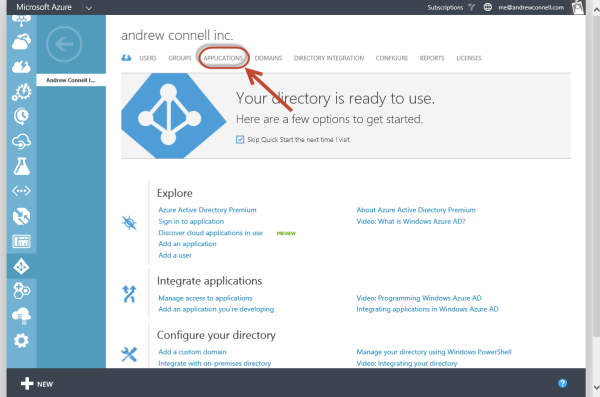
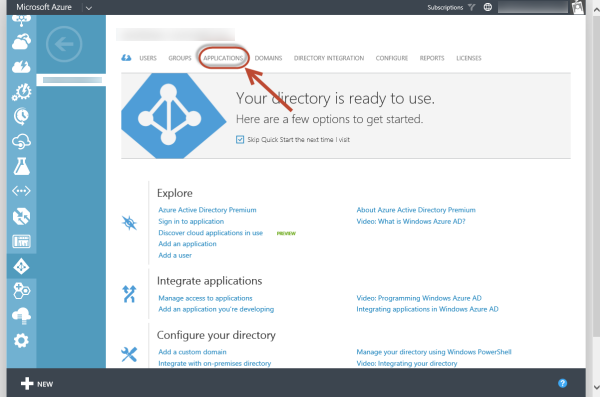
updated HOL to (1) reference correct O365 tools in VS2013.4 & (2) updated screenshots to mask out author's email & tenant

diff --git a/O3653-1 Deep Dive into Azure AD with the Office 365 APIs/Lab.md b/O3653-1 Deep Dive into Azure AD with the Office 365 APIs/Lab.md
@@ -4,8 +4,8 @@ In this lab you will configure your Azure Active Directory (Azure AD) tenant to 
 
 ## Prerequisites
 1. You must have an Office 365 tenant and Windows Azure subscription to complete this lab. If you do not have one, the lab for **O3651-7 Setting up your Developer environment in Office 365** shows you how to obtain a trial.
-1. You must have the Office 365 API Tools version 1.2.41027.2 installed in Visual Studio 2013.
-1. You must have the TelerikFiddler application installed. Fiddler can be downloaded from [http://www.telerik.com/fiddler](http://www.telerik.com/fiddler) 
+1. You must have the Office 365 API Tools version 1.3.41104.1 installed in Visual Studio 2013.
+1. You must have **Telerik Fiddler** installed. Fiddler can be downloaded from [http://www.telerik.com/fiddler](http://www.telerik.com/fiddler) 
 
 ## Exercise 1: Register an application in Azure AD 
 *Consuming O365 APIs requires all requests to be authorized, both the current user and the application. Azure AD Provides the authentication for the app and user.*
